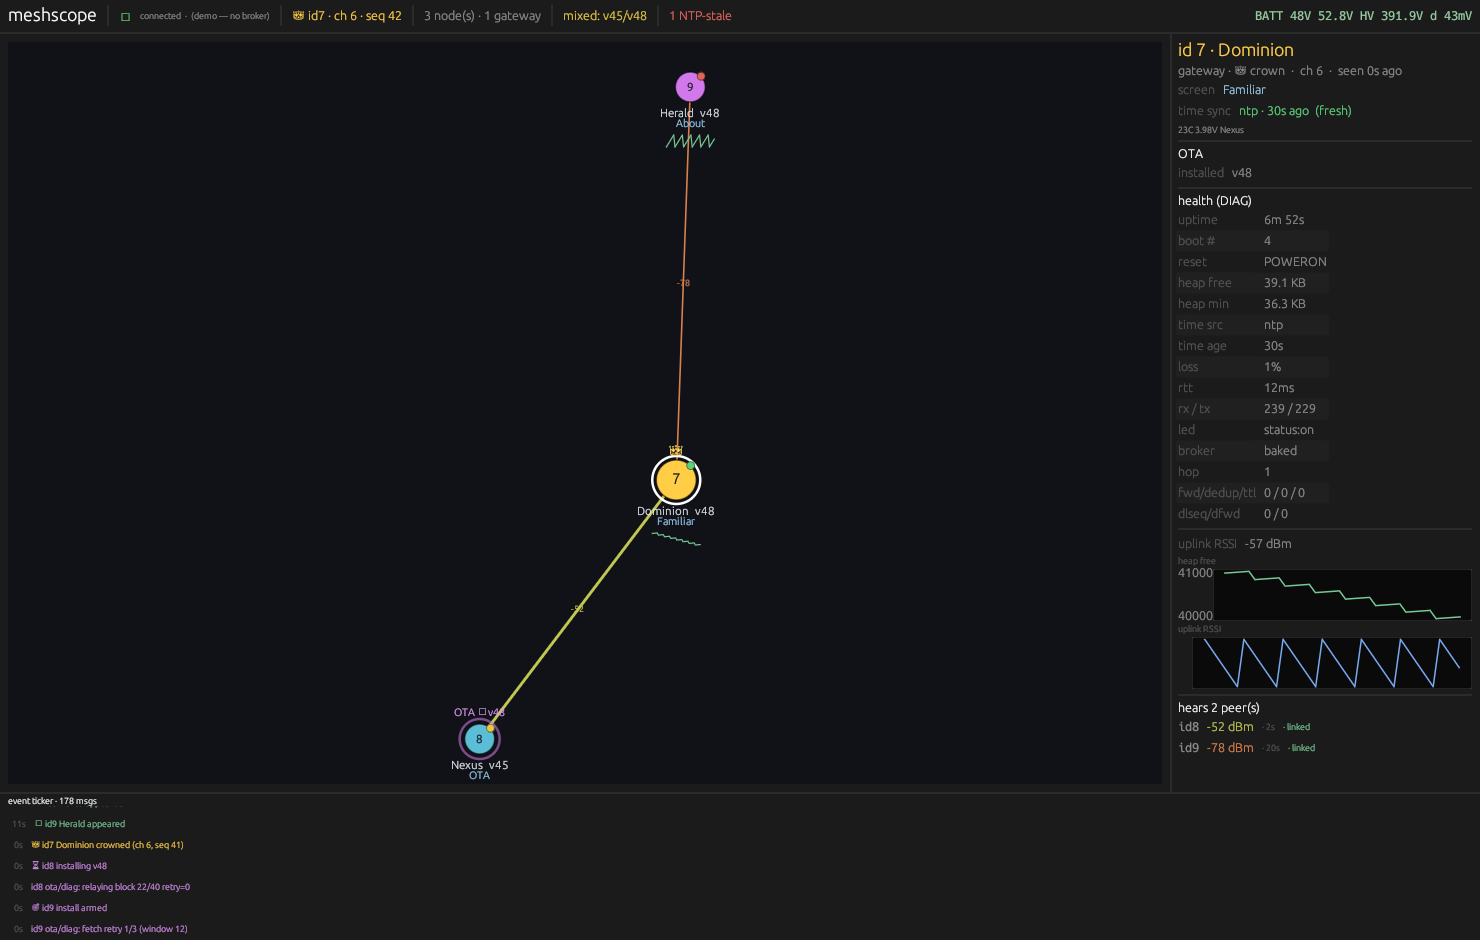
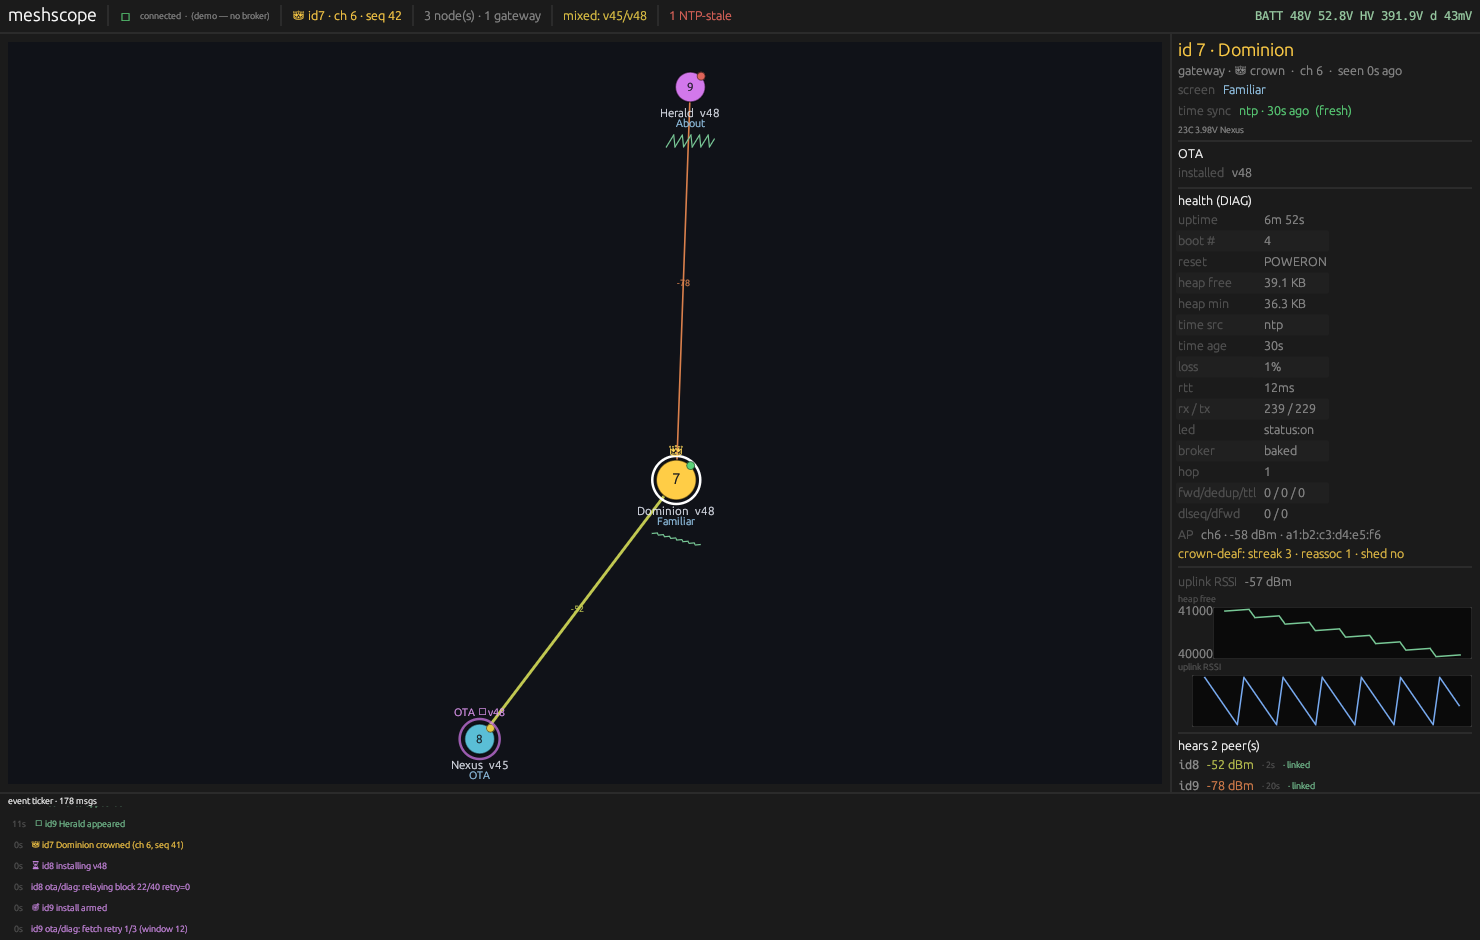
feat(viz): #159 observatory parity — NTP aura + cdeaf crown-health + ap/cdeaf parsers
Brings observatory up to meshscope's #187 parity contract + the two new #204 telemetry
fields, all derived ONCE in mesh-model (one model, two faces).

mesh-model (shared → both faces get it free):
- Node::ap() parses DIAG ap=<ch>:<rssi>:<bssid> (#204). rssi is signed dBm from
  esp_wifi_sta_get_ap_info — NOT raw-u8, so it correctly passes normalize_rssi's rule by.
- Node::crown_deaf() parses DIAG cdeaf=<streak>:<reassoc_cycles>:<shed> (#204).
- ApInfo / CrownDeaf structs + a 12-hex BSSID parser + a unit test.

observatory (the lagging face, now caught up):
- NTP-freshness aura ringing each orb (jade/amber/red/grey, same 300/3600 thresholds as
  meshscope's dots; stale/unsynced pulse to catch the eye).
- Crown-health from cdeaf: the reigning crown reddens, dims and flickers as the
  dead-downstream streak climbs, then flickers violently when shed — tonight's coexist
  disease made VISIBLE as drama on the wall display.
- OTA particle streams were already keyed off in_progress (#171). The demo showcases all
  NTP states + a climbing crown streak.

meshscope (gets the parsers free): the inspector now shows the crown's AP association
(ch/rssi/bssid — the "which AP is the deaf crown on" forensics gap that cost hours of
pcap) + crown-deaf health (streak/reassoc/shed, coloured by severity).

Verified on familiar: workspace build, clippy --workspace clean, 21 mesh-model tests
(incl. ap/cdeaf parse), meshscope + observatory --selftest green, and headless renders
[…]

Changed region(s): [[0.777, 0.5553, 0.9946, 0.833]]

diff --git a/rust/viz/mesh-model/src/model.rs b/rust/viz/mesh-model/src/model.rs
@@ -58,6 +58,35 @@ pub enum SyncFreshness {
     Unsynced, // tsrc=none, or no tage reported
 }
 
+/// The crown's associated AP — channel, RSSI (dBm), BSSID — from DIAG `ap=` (#204).
+#[derive(Clone, Copy, PartialEq, Eq, Debug)]
+pub struct ApInfo {
+    pub channel: u8,
+    pub rssi: i32,
+    pub bssid: [u8; 6],
+}
+
+/// Crown dead-downstream health from DIAG `cdeaf=` (#204). `streak` climbing = the crown
+/// is connected upstream but hearing nothing downstream (the coexist deaf disease).
+#[derive(Clone, Copy, PartialEq, Eq, Debug)]
+pub struct CrownDeaf {
+    pub streak: u8,
+    pub reassoc_cycles: u32,
+    pub shed: bool,
+}
+
+/// Parse a 12-hex-char BSSID (`aabbccddeeff`, no separators — the DIAG `ap=` wire form).
+fn parse_bssid_hex(s: &str) -> Option<[u8; 6]> {
+    if s.len() != 12 {
+        return None;
+    }
+    let mut out = [0u8; 6];
+    for (i, b) in out.iter_mut().enumerate() {
+        *b = u8::from_str_radix(s.get(i * 2..i * 2 + 2)?, 16).ok()?;
+    }
+    Some(out)
+}
+
 #[derive(Clone, Debug)]
 pub struct Event {
     pub t_s: f64,
@@ -159,6 +188,30 @@ impl Node {
             Some(a) if a < SYNC_STALE_S => SyncFreshness::Aging,
             Some(_) => SyncFreshness::Stale,
         }
+    }
+
+    /// The crown's current AP association (DIAG `ap=<ch>:<rssi>:<bssid>`, #204). `rssi`
+    /// is already signed dBm (from `esp_wifi_sta_get_ap_info`), NOT raw-u8 — the
+    /// `controller.rssi()` rule (see `parse::normalize_rssi`) — so it passes through.
+    pub fn ap(&self) -> Option<ApInfo> {
+        let raw = self.diag.as_ref()?.get("ap")?;
+        let mut it = raw.splitn(3, ':'); // bssid is 12 hex chars, no colons
+        let channel = it.next()?.parse().ok()?;
+        let rssi = it.next()?.parse().ok()?;
+        let bssid = parse_bssid_hex(it.next()?)?;
+        Some(ApInfo { channel, rssi, bssid })
+    }
+
+    /// Crown dead-downstream health (DIAG `cdeaf=<streak>:<reassoc_cycles>:<shed>`, #204).
+    /// A climbing `streak` = the crown is CONNECTED but hearing nothing downstream — the
+    /// disease #204 hunts; `shed` = the crown shed itself. `None` on a non-crown leaf.
+    pub fn crown_deaf(&self) -> Option<CrownDeaf> {
+        let raw = self.diag.as_ref()?.get("cdeaf")?;
+        let mut it = raw.split(':');
+        let streak = it.next()?.parse().ok()?;
+        let reassoc_cycles = it.next()?.parse().ok()?;
+        let shed = it.next()?.parse::<u8>().ok()? != 0;
+        Some(CrownDeaf { streak, reassoc_cycles, shed })
     }
 }
 
@@ -438,6 +491,25 @@ mod tests {
         assert_eq!(model.nodes[&4].sync_freshness(), SyncFreshness::Unsynced);
         assert_eq!(model.nodes[&1].time_age(), Some(30));
         assert_eq!(model.nodes[&1].time_src(), Some("ntp"));
+    }
+
+    #[test]
+    fn ap_and_cdeaf_parse_from_diag() {
+        let mut model = m();
+        // #204 optional DIAG appends: ap=<ch>:<rssi>:<bssid(12hex)>, cdeaf=<streak>:<cycles>:<shed>.
+        model.ingest(1.0, "smol/7/diag", b"DIAG|boot=1|heap=40000|ap=6:-52:a1b2c3d4e5f6|cdeaf=4:2:1");
+        let ap = model.nodes[&7].ap().unwrap();
+        assert_eq!(ap.channel, 6);
+        assert_eq!(ap.rssi, -52); // signed dBm — NOT normalized
+        assert_eq!(ap.bssid, [0xa1, 0xb2, 0xc3, 0xd4, 0xe5, 0xf6]);
+        let cd = model.nodes[&7].crown_deaf().unwrap();
+        assert_eq!(cd.streak, 4);
+        assert_eq!(cd.reassoc_cycles, 2);
+        assert!(cd.shed);
+        // Absent on a node without the fields.
+        model.ingest(1.0, "smol/8/diag", b"DIAG|boot=1|heap=40000");
+        assert!(model.nodes[&8].ap().is_none());
+        assert!(model.nodes[&8].crown_deaf().is_none());
     }
 
     #[test]

diff --git a/rust/viz/observatory/src/viz/effects.rs b/rust/viz/observatory/src/viz/effects.rs
@@ -8,6 +8,8 @@ use std::f32::consts::TAU;
 
 use bevy::prelude::*;
 
+use mesh_model::model::{CrownDeaf, SyncFreshness};
+
 use crate::mesh::MeshHandle;
 use crate::palette;
 use crate::viz::{Comet, NodeId, Stream, VizState};
@@ -20,7 +22,8 @@ const BURST_DUR: f64 = 0.7;
 /// caused by the mesh, never faked.
 pub fn detect_transitions(mesh: Res<MeshHandle>, mut state: ResMut<VizState>) {
     let now = mesh.now();
-    let (owner, channel, ota): (Option<u8>, Option<u8>, Vec<(u8, bool)>) = {
+    #[allow(clippy::type_complexity)]
+    let (owner, channel, ota, crown_deaf): (Option<u8>, Option<u8>, Vec<(u8, bool)>, Option<CrownDeaf>) = {
         let Ok(m) = mesh.model.lock() else { return };
         let owner = m.crown.map(|c| c.owner);
         let channel = m.crown.map(|c| c.channel);
@@ -29,8 +32,12 @@ pub fn detect_transitions(mesh: Res<MeshHandle>, mut state: ResMut<VizState>) {
             .iter()
             .map(|(id, n)| (*id, n.ota.as_ref().map(|o| o.in_progress).unwrap_or(false)))
             .collect();
-        (owner, channel, ota)
+        // #204: the reigning crown's dead-downstream health.
+        let crown_deaf = owner.and_then(|o| m.nodes.get(&o)).and_then(|n| n.crown_deaf());
+        (owner, channel, ota, crown_deaf)
     };
+    state.crown_deaf_streak = crown_deaf.map(|c| c.streak).unwrap_or(0);
+    state.crown_shed = crown_deaf.map(|c| c.shed).unwrap_or(false);
 
     // Crown moved → launch a comet from old → new.
     if owner != state.crown_owner {
@@ -89,10 +96,24 @@ pub fn draw_crown(
 
     if let Some(owner) = state.crown_owner {
         if let Some(&c) = pos.get(&owner) {
-            gizmos.circle_2d(c, 34.0, palette::crown_gold());
+            // #204 crown-health: healthy = steady gold; as the dead-downstream streak
+            // climbs the crown reddens, dims and flickers; a SHED crown flickers violently
+            // — tonight's coexist disease made visible as drama on the wall display.
+            let sick = (state.crown_deaf_streak as f32 / 8.0).clamp(0.0, 1.0);
+            let brightness = if state.crown_shed {
+                0.2 + 0.4 * ((elapsed * 24.0).sin() * 0.5 + 0.5)
+            } else if sick > 0.05 {
+                let dim = 1.0 - 0.6 * sick;
+                let flick = 0.6 + 0.4 * (0.5 + 0.5 * (elapsed * (5.0 + sick * 14.0)).sin());
+                (dim * flick).clamp(0.15, 1.0)
+            } else {
+                1.0
+            };
+            let crown_col = palette::crown_health(sick, brightness);
+            gizmos.circle_2d(c, 34.0, crown_col);
             for i in 0..6 {
                 let a = elapsed * 0.6 + i as f32 * TAU / 6.0;
-                gizmos.circle_2d(c + Vec2::new(a.cos(), a.sin()) * 40.0, 2.6, palette::crown_gold());
+                gizmos.circle_2d(c + Vec2::new(a.cos(), a.sin()) * 40.0, 2.6, crown_col);
             }
         }
     }
@@ -144,6 +165,27 @@ pub fn draw_streams(mesh: Res<MeshHandle>, state: Res<VizState>, orbs: Query<(&N
                 gizmos.circle_2d(to, 4.0 + bf * 22.0, palette::ota_burst());
             }
         }
+    }
+}
+
+/// NTP-sync freshness aura ringing each orb (parity with meshscope's dots, #187): jade
+/// fresh · amber aging · red stale · grey unsynced — same 300/3600 thresholds. Stale and
+/// unsynced pulse to catch the eye; fresh/aging sit steady.
+pub fn draw_ntp_aura(time: Res<Time>, mesh: Res<MeshHandle>, orbs: Query<(&NodeId, &Transform)>, mut gizmos: Gizmos) {
+    let fresh: HashMap<u8, SyncFreshness> = {
+        let Ok(m) = mesh.model.lock() else { return };
+        m.nodes.iter().map(|(id, n)| (*id, n.sync_freshness())).collect()
+    };
+    let elapsed = time.elapsed_seconds();
+    for (n, t) in &orbs {
+        let Some(f) = fresh.get(&n.0) else { continue };
+        let pulse = match f {
+            SyncFreshness::Stale | SyncFreshness::Unsynced => 0.45 + 0.55 * (0.5 + 0.5 * (elapsed * 3.0).sin()),
+            _ => 0.7,
+        };
+        let base = palette::sync_color(*f).to_linear();
+        let col = Color::linear_rgb(base.red * pulse, base.green * pulse, base.blue * pulse);
+        gizmos.circle_2d(t.translation.truncate(), t.scale.x + 7.0, col);
     }
 }
 

diff --git a/rust/viz/meshscope/src/ui/panel.rs b/rust/viz/meshscope/src/ui/panel.rs
@@ -127,6 +127,27 @@ pub fn show(ui: &mut egui::Ui, model: &Model, selected: Option<u8>, now_s: f64) 
         if d.u64("heap").is_some_and(|h| h <= LOW_HEAP_B) {
             ui.label(RichText::new("⚠ low heap").color(Color32::from_rgb(230, 120, 90)));
         }
+        // #204: the crown's associated AP (which AP/channel/RSSI a deaf crown is on — the
+        // forensics gap that cost hours of pcap), and crown dead-downstream health.
+        if let Some(ap) = node.ap() {
+            kv(ui, "AP", &format!("ch{} · {} dBm · {}", ap.channel, ap.rssi, fmt_bssid(ap.bssid)));
+        }
+        if let Some(cd) = node.crown_deaf() {
+            let col = if cd.shed {
+                Color32::from_rgb(224, 90, 90)
+            } else if cd.streak > 0 {
+                Color32::from_rgb(230, 190, 70)
+            } else {
+                Color32::from_rgb(120, 200, 150)
+            };
+            ui.label(
+                RichText::new(format!(
+                    "crown-deaf: streak {} · reassoc {} · shed {}",
+                    cd.streak, cd.reassoc_cycles, if cd.shed { "yes" } else { "no" }
+                ))
+                .color(col),
+            );
+        }
         ui.separator();
     }
 
@@ -187,6 +208,10 @@ fn sparkline_plot(ui: &mut egui::Ui, name: &str, hist: &std::collections::VecDeq
         .show(ui, |plot_ui| {
             plot_ui.line(Line::new(pts).color(color).width(1.5_f32));
         });
+}
+
+fn fmt_bssid(b: [u8; 6]) -> String {
+    format!("{:02x}:{:02x}:{:02x}:{:02x}:{:02x}:{:02x}", b[0], b[1], b[2], b[3], b[4], b[5])
 }
 
 fn fmt_bytes(b: u64) -> String {

diff --git a/rust/viz/observatory/src/palette.rs b/rust/viz/observatory/src/palette.rs
@@ -6,6 +6,27 @@
 //! void, dim filaments) sit below 1.0.
 
 use bevy::prelude::*;
+use mesh_model::model::SyncFreshness;
+
+/// NTP-sync freshness aura colour (parity with meshscope's dots): jade fresh → amber
+/// aging → infernal red stale → cold grey unsynced. HDR-bright so it blooms.
+pub fn sync_color(f: SyncFreshness) -> Color {
+    match f {
+        SyncFreshness::Fresh => Color::linear_rgb(0.1, 1.7, 0.5),
+        SyncFreshness::Aging => Color::linear_rgb(2.6, 1.7, 0.2),
+        SyncFreshness::Stale => Color::linear_rgb(3.2, 0.4, 0.3),
+        SyncFreshness::Unsynced => Color::linear_rgb(0.35, 0.38, 0.5),
+    }
+}
+
+/// The crown's ring colour as its dead-downstream health degrades (#204 `cdeaf`):
+/// steady gold when healthy (`sick`=0) → infernal red as the deaf streak climbs
+/// (`sick`→1), the whole thing scaled by `brightness` (the caller flickers/dims it).
+pub fn crown_health(sick: f32, brightness: f32) -> Color {
+    let s = sick.clamp(0.0, 1.0);
+    let b = brightness.clamp(0.0, 1.0);
+    Color::linear_rgb(lerp(6.0, 5.2, s) * b, lerp(3.4, 0.35, s) * b, lerp(0.5, 0.2, s) * b)
+}
 
 /// Deep arcane void — the field the constellation floats in. A near-black indigo so
 /// bloom has darkness to bloom against. This is the base clear colour at channel 6;

diff --git a/rust/viz/observatory/src/mesh.rs b/rust/viz/observatory/src/mesh.rs
@@ -209,14 +209,29 @@ pub fn demo_driver(mesh: Res<MeshHandle>, mut script: ResMut<DemoScript>) {
         script.last_live_s = now;
         script.tick += 1;
         let tick = script.tick;
+        let crown = m.crown.map(|c| c.owner);
         for (slot, &id) in DEMO_FLEET.iter().enumerate() {
             let heap = 40_000 + (jitter(id as u64, tick) * 900.0) as i64;
             let up = 100 + now as u64;
             let boot = 4 + (id as u64 % 3);
-            let diag = format!(
-                "DIAG|slot={}|rst=POWERON|boot={boot}|ota=ok|up={up}|heap={heap}|hmin=37200|led=status:on|tage=30|tsrc=ntp|net=0:ok|brk=baked|otah=slot|fwd=0|dedup=0|hop=1",
+            // Vary NTP freshness across the fleet so the aura shows every state.
+            let (tage, tsrc): (u64, &str) = match id {
+                9 => (4200, "mesh"), // stale (red)
+                8 => (820, "mesh"),  // aging (amber)
+                11 => (0, "none"),   // unsynced (grey)
+                _ => (30, "ntp"),    // fresh (green)
+            };
+            let mut diag = format!(
+                "DIAG|slot={}|rst=POWERON|boot={boot}|ota=ok|up={up}|heap={heap}|hmin=37200|led=status:on|tage={tage}|tsrc={tsrc}|net=0:ok|brk=baked|otah=slot|fwd=0|dedup=0|hop=1",
                 slot % 2
             );
+            // The reigning crown reports its AP association + a climbing dead-downstream
+            // streak (#204) — the crown visibly sickens/reddens/flickers, then sheds and
+            // recovers, so the coexist disease is drama on the wall display.
+            if Some(id) == crown {
+                let streak = ((tick / 2) % 10) as u8; // 0..9, climbs then resets
+                diag.push_str(&format!("|ap=6:-58:a1b2c3d4e5f6|cdeaf={streak}:{}:{}", streak / 3, u8::from(streak >= 8)));
+            }
             m.ingest(now, &format!("smol/{id}/diag"), diag.as_bytes());
             let rssi = -52 + (jitter(tick, id as u64) * 6.0) as i32;
             m.ingest(now, &format!("smol/{id}/uplink"), rssi.to_string().as_bytes());

diff --git a/rust/viz/observatory/src/viz/mod.rs b/rust/viz/observatory/src/viz/mod.rs
@@ -79,6 +79,9 @@ pub struct VizState {
     pub ota_active: HashMap<u8, bool>,
     pub comet: Option<Comet>,
     pub streams: Vec<Stream>,
+    /// #204 crown dead-downstream streak (cdeaf) — drives the crown's sick flicker.
+    pub crown_deaf_streak: u8,
+    pub crown_shed: bool,
 }
 
 pub struct VizPlugin;
@@ -100,6 +103,7 @@ impl Plugin for VizPlugin {
                     effects::detect_transitions,
                     effects::draw_crown,
                     effects::draw_streams,
+                    effects::draw_ntp_aura,
                     effects::channel_shift,
                     hud::update_hud,
                 )

diff --git a/rust/viz/meshscope/src/main.rs b/rust/viz/meshscope/src/main.rs
@@ -148,7 +148,7 @@ fn seed_demo(m: &mut Model) {
         let heap7 = 41_000 - (k as i64 * 30) + ((k % 5) as i64 * 40);
         let heap8 = 39_500 - (k as i64 * 12);
         let heap9 = 38_200 + ((k % 7) as i64 * 25);
-        m.ingest(t, "smol/7/diag", format!("DIAG|slot=0|rst=POWERON|boot=4|ota=ok|up={}|heap={heap7}|hmin=37200|loss=1|rtt=12|rx={}|tx={}|led=status:on|tage=30|tsrc=ntp|net=0:ok|brk=baked|otah=slot|fwd=0|dedup=0|ttl=0|hop=1|dlseq=0|dfwd=0", 100 + t as u64, 200 + k, 190 + k).as_bytes());
+        m.ingest(t, "smol/7/diag", format!("DIAG|slot=0|rst=POWERON|boot=4|ota=ok|up={}|heap={heap7}|hmin=37200|loss=1|rtt=12|rx={}|tx={}|led=status:on|tage=30|tsrc=ntp|net=0:ok|brk=baked|otah=slot|fwd=0|dedup=0|ttl=0|hop=1|dlseq=0|dfwd=0|ap=6:-58:a1b2c3d4e5f6|cdeaf=3:1:0", 100 + t as u64, 200 + k, 190 + k).as_bytes());
         m.ingest(t, "smol/8/diag", format!("DIAG|slot=1|rst=SW|boot=7|ota=ok|up={}|heap={heap8}|hmin=36900|loss=3|rtt=18|rx={}|tx={}|led=status:on|tage=820|tsrc=mesh|net=0:ok|brk=baked|otah=slot|fwd=0|dedup=2|ttl=0|hop=1|dlseq=1783|dfwd=1|cfg=Batt:2", 90 + t as u64, 150 + k, 140 + k).as_bytes());
         // id9: NTP-stale (~70 min since sync) — the case JP wants visible.
         m.ingest(t, "smol/9/diag", format!("DIAG|slot=0|rst=POWERON|boot=2|ota=ok|up={}|heap={heap9}|hmin=37600|loss=22|rtt=40|rx={}|tx={}|led=status:on|tage=4200|tsrc=mesh|net=0:ok|brk=baked|otah=slot|fwd=0|dedup=0|ttl=1|hop=2|dlseq=1783|dfwd=0", 60 + t as u64, 40 + k, 30 + k).as_bytes());